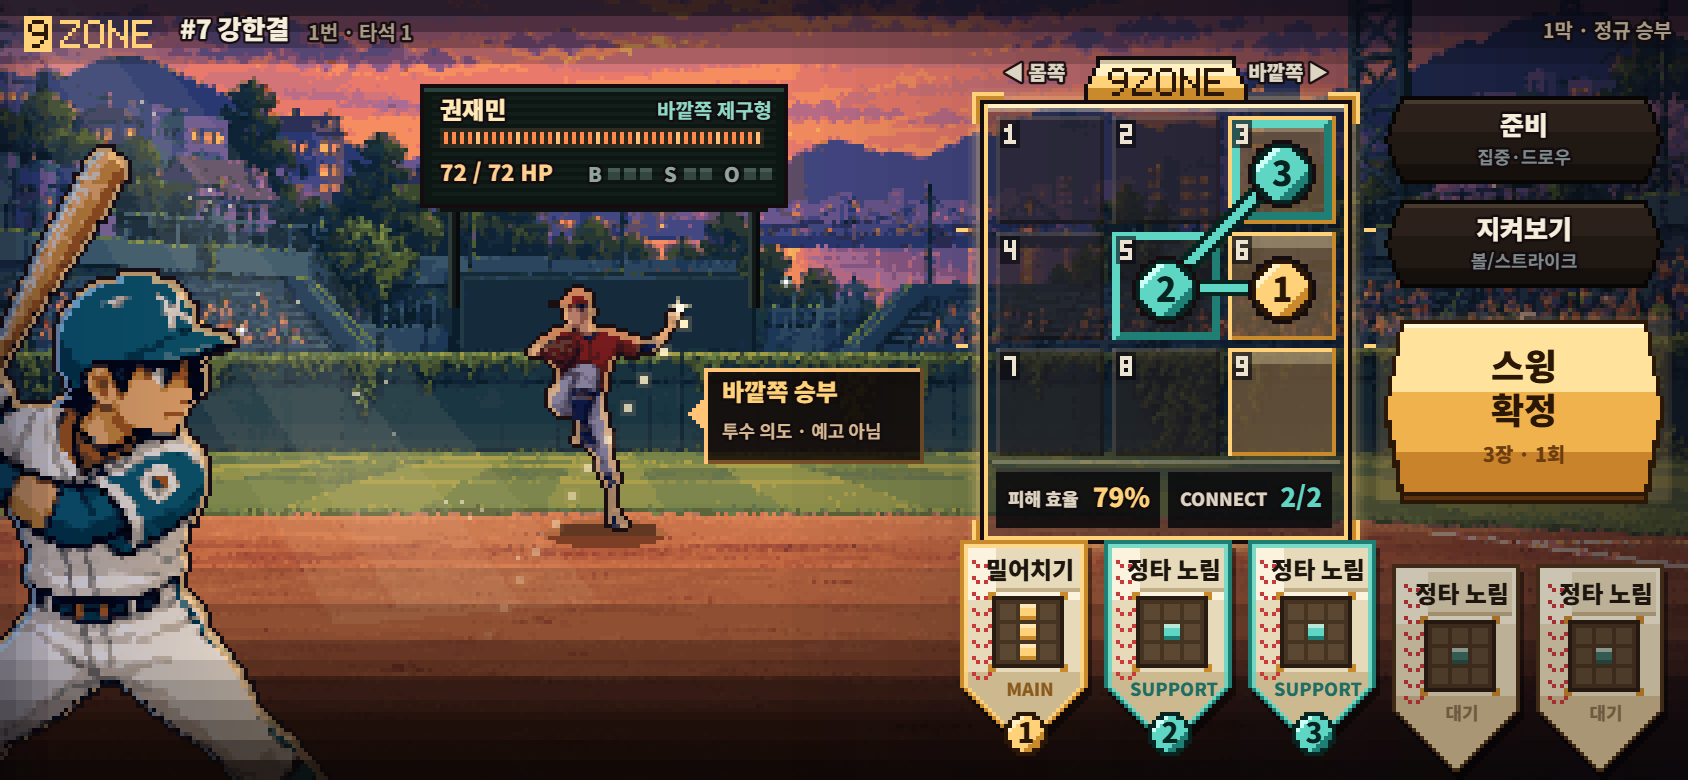
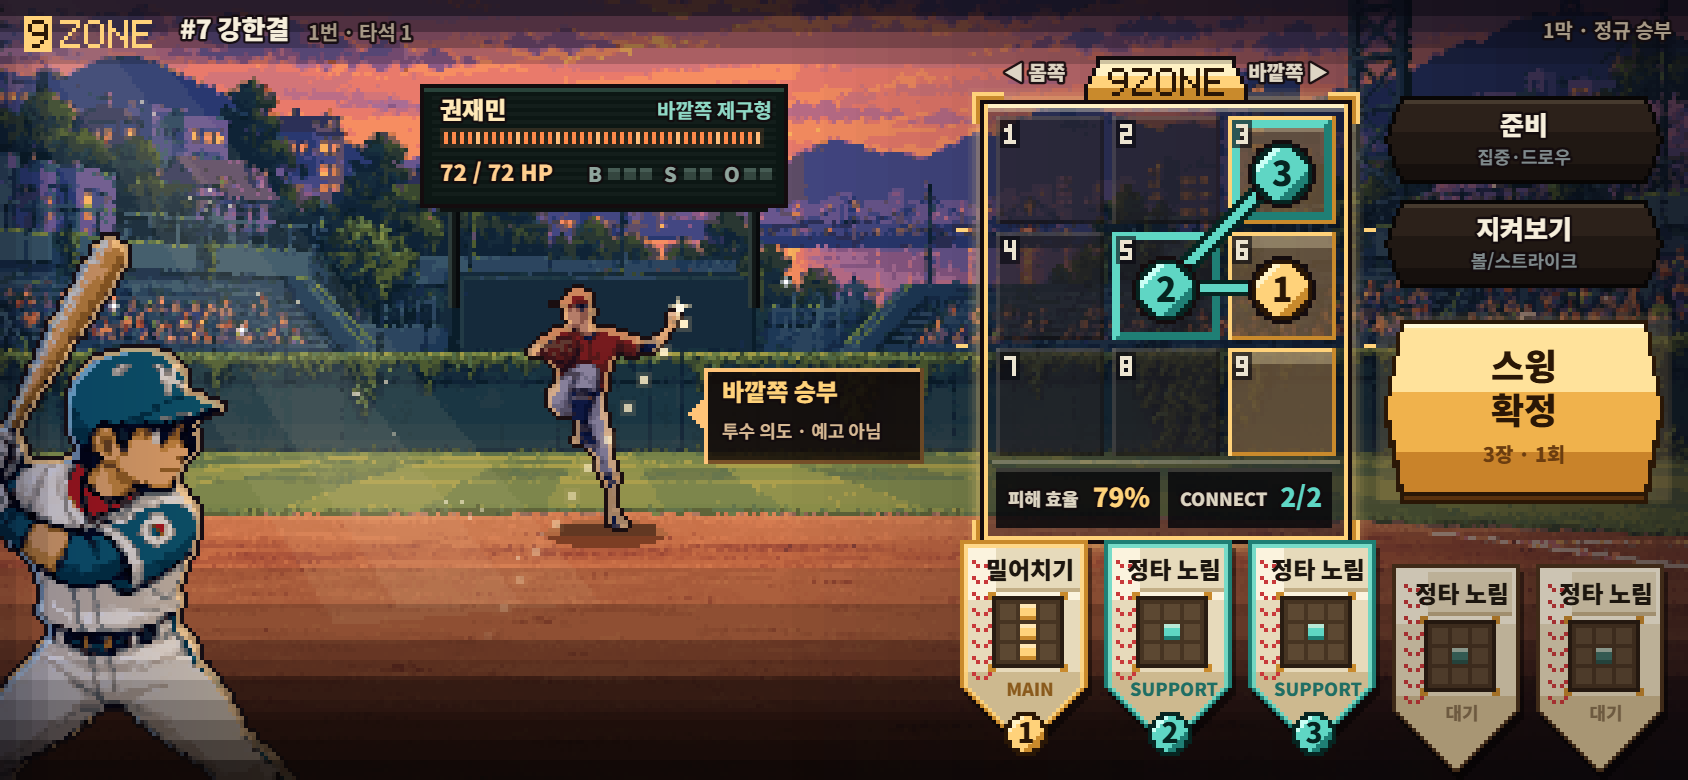
design(v12): LOOP 9 — batter on exact 2x authored pixels, loop log
The batter source is ~80x96 authored pixels enlarged; at 200 art px each
source pixel landed on 2.27 grid cells and the chunks were uneven. At 176
every authored pixel is exactly 2x2, which cleans the face, hands and
stripes in all three layouts. README records the nine loops, the two
independent reviews and what only new art or a font download can fix.

Changed region(s): [[0.0, 0.1846, 0.1848, 1.0]]

diff --git a/docs/design/v12/gm/scene.js b/docs/design/v12/gm/scene.js
@@ -16,7 +16,7 @@ K.line(0,275,80,262,[236,226,202]);K.line(0,276,80,263,[120,80,60]);K.line(176,2
 // 2–3. opponent and duel
 GM.board({x:52,y:34,w:90,h:29});
 GM.pitcher({fx:102,fy:131,h:62,path:[129,134]});
-GM.batter({x:-39,y:131,h:200});
+GM.batter({x:-30,y:152,h:176});   // exactly 2 art px per authored pixel: even chunks
 for(let k=0;k<8;k++)K.wash(0,268+k*3,95,3,[12,7,6],(k+1)/8*.9);
 GM.edges(14,274,195);
 for(let k=0;k<4;k++)K.wash(0,284+k*2,195,2,[12,7,6],.25+k*.2);

diff --git a/docs/design/v12/gm/scene-desktop.js b/docs/design/v12/gm/scene-desktop.js
@@ -21,7 +21,7 @@ K.line(4,272,150,262,[236,226,202]);K.line(4,273,150,263,[120,80,60]);
 GM.board({x:195,y:76,w:90,h:29},{posts:14});
 GM.pitcher({fx:240,fy:177,h:56,path:[276,226]});
 for(let r=0;r<4;r++)K.wash(14+r*8,279+r,122-r*16,7-r*2,[10,4,2],.3);K.dither(20,277,110,4,[10,4,2],.35);                        // contact shadow
-GM.batter({x:22,y:118,h:168});
+GM.batter({x:18,y:110,h:176});
 GM.edges(14,236,480);
 GM.intent({x:150,y:120,w:55,h:24},{pointer:'right'});
 

diff --git a/docs/design/v12/gm/scene-landscape.js b/docs/design/v12/gm/scene-landscape.js
@@ -15,7 +15,7 @@ GM.flashes([[28,76],[196,70],[60,82]]);
 // 2–3. opponent and duel
 GM.board({x:106,y:22,w:90,h:29});
 GM.pitcher({fx:151,fy:133,h:62,path:[112,158]});
-GM.batter({x:-34,y:36,h:200});
+GM.batter({x:-26,y:58,h:176});
 for(let k=0;k<6;k++)K.wash(0,165+k*5,422,5,[12,7,6],(k+1)/6*.85);
 GM.edges(14,181,1000);
 GM.intent({x:176,y:92,w:55,h:24});

diff --git a/docs/design/v12/gm/README.md b/docs/design/v12/gm/README.md
@@ -67,3 +67,25 @@
 - 가로판은 사양대로 9ZONE을 오른쪽 위 조작 장치로 옮겨서, 플레이트 위에 선 표현이 빠진다. PC판은 픽셀을 화면 3px로 키우고 경기장 전체를 펼친다. 모바일 확대판이 아니다.
 - 폰트는 이 PC(Windows)의 Malgun Gothic으로 렌더했다. CI(Linux) 캡처는 글꼴이 다를 수 있다.
 - 타자는 아래쪽이 손패 영역의 어둠 속으로 잘린다. 어깨 너머 구도를 의도한 것이다.
+
+## 루프 기록 (2026-09-23 밤, 자율 루프)
+
+| 루프 | 커밋 | 내용 |
+| --- | --- | --- |
+| 1 | `0adfacb` | 한 픽셀 격자(195×422, 2배). 원본을 격자로 재샘플링, 9ZONE·카드·버튼을 픽셀로 다시 그림 |
+| 2 | `781558a` | 한 가지 빛: 타자 방향성 음영, 조명탑 광선·먼지·플래시, 더그아웃 판 트레이 |
+| 3 | `74b3dce` | 존 유리 투명화, 투수 확대, 전광판을 기둥 위로 |
+| 4 | `25a51ce` | 카드 속 미니 9ZONE |
+| 5 | `114dcc4` | 가로 844×390 + 구성 요소 분리(`parts.js`) |
+| 6 | `cc67250` | PC 1440×900(3배 픽셀, 경기장 전체) |
+| 7 | `b62b501` | 1차 독립 리뷰 반영: 역광 투수, 타자 등 림라이트, 가로 전면 배경, PC 타자 접지 |
+| 8 | `6ad5bbb` | 2차 리뷰 반영: 손패를 스윙 순서로, 공 궤적 강화, 칸 번호 축소 |
+| 9 | (이 커밋) | 타자를 원본 픽셀 정확히 2배로 맞춰 덩어리 균일화 |
+
+독립 리뷰(에이전트, §11 12항목): 1차 3 통과 / 6 약함 / 3 실패 → 2차 6 / 5 / 1.
+
+**남은 실패·약점 중 코드로 풀 수 없는 것 — 사용자 판단 필요:**
+
+1. 배우와 경기장의 픽셀 밀도 차이: 배우를 경기장 픽셀 크기로 다시 그린 원화가 필요하다.
+2. 홈플레이트 뒤 시점이면 투수가 카메라를 봐야 한다. 지금은 측면 대결용 원화라 왼쪽을 본다.
+3. 한글 비트맵 글꼴: Galmuri 계열(OFL)을 쓰려면 다운로드 허락이 필요하다.
